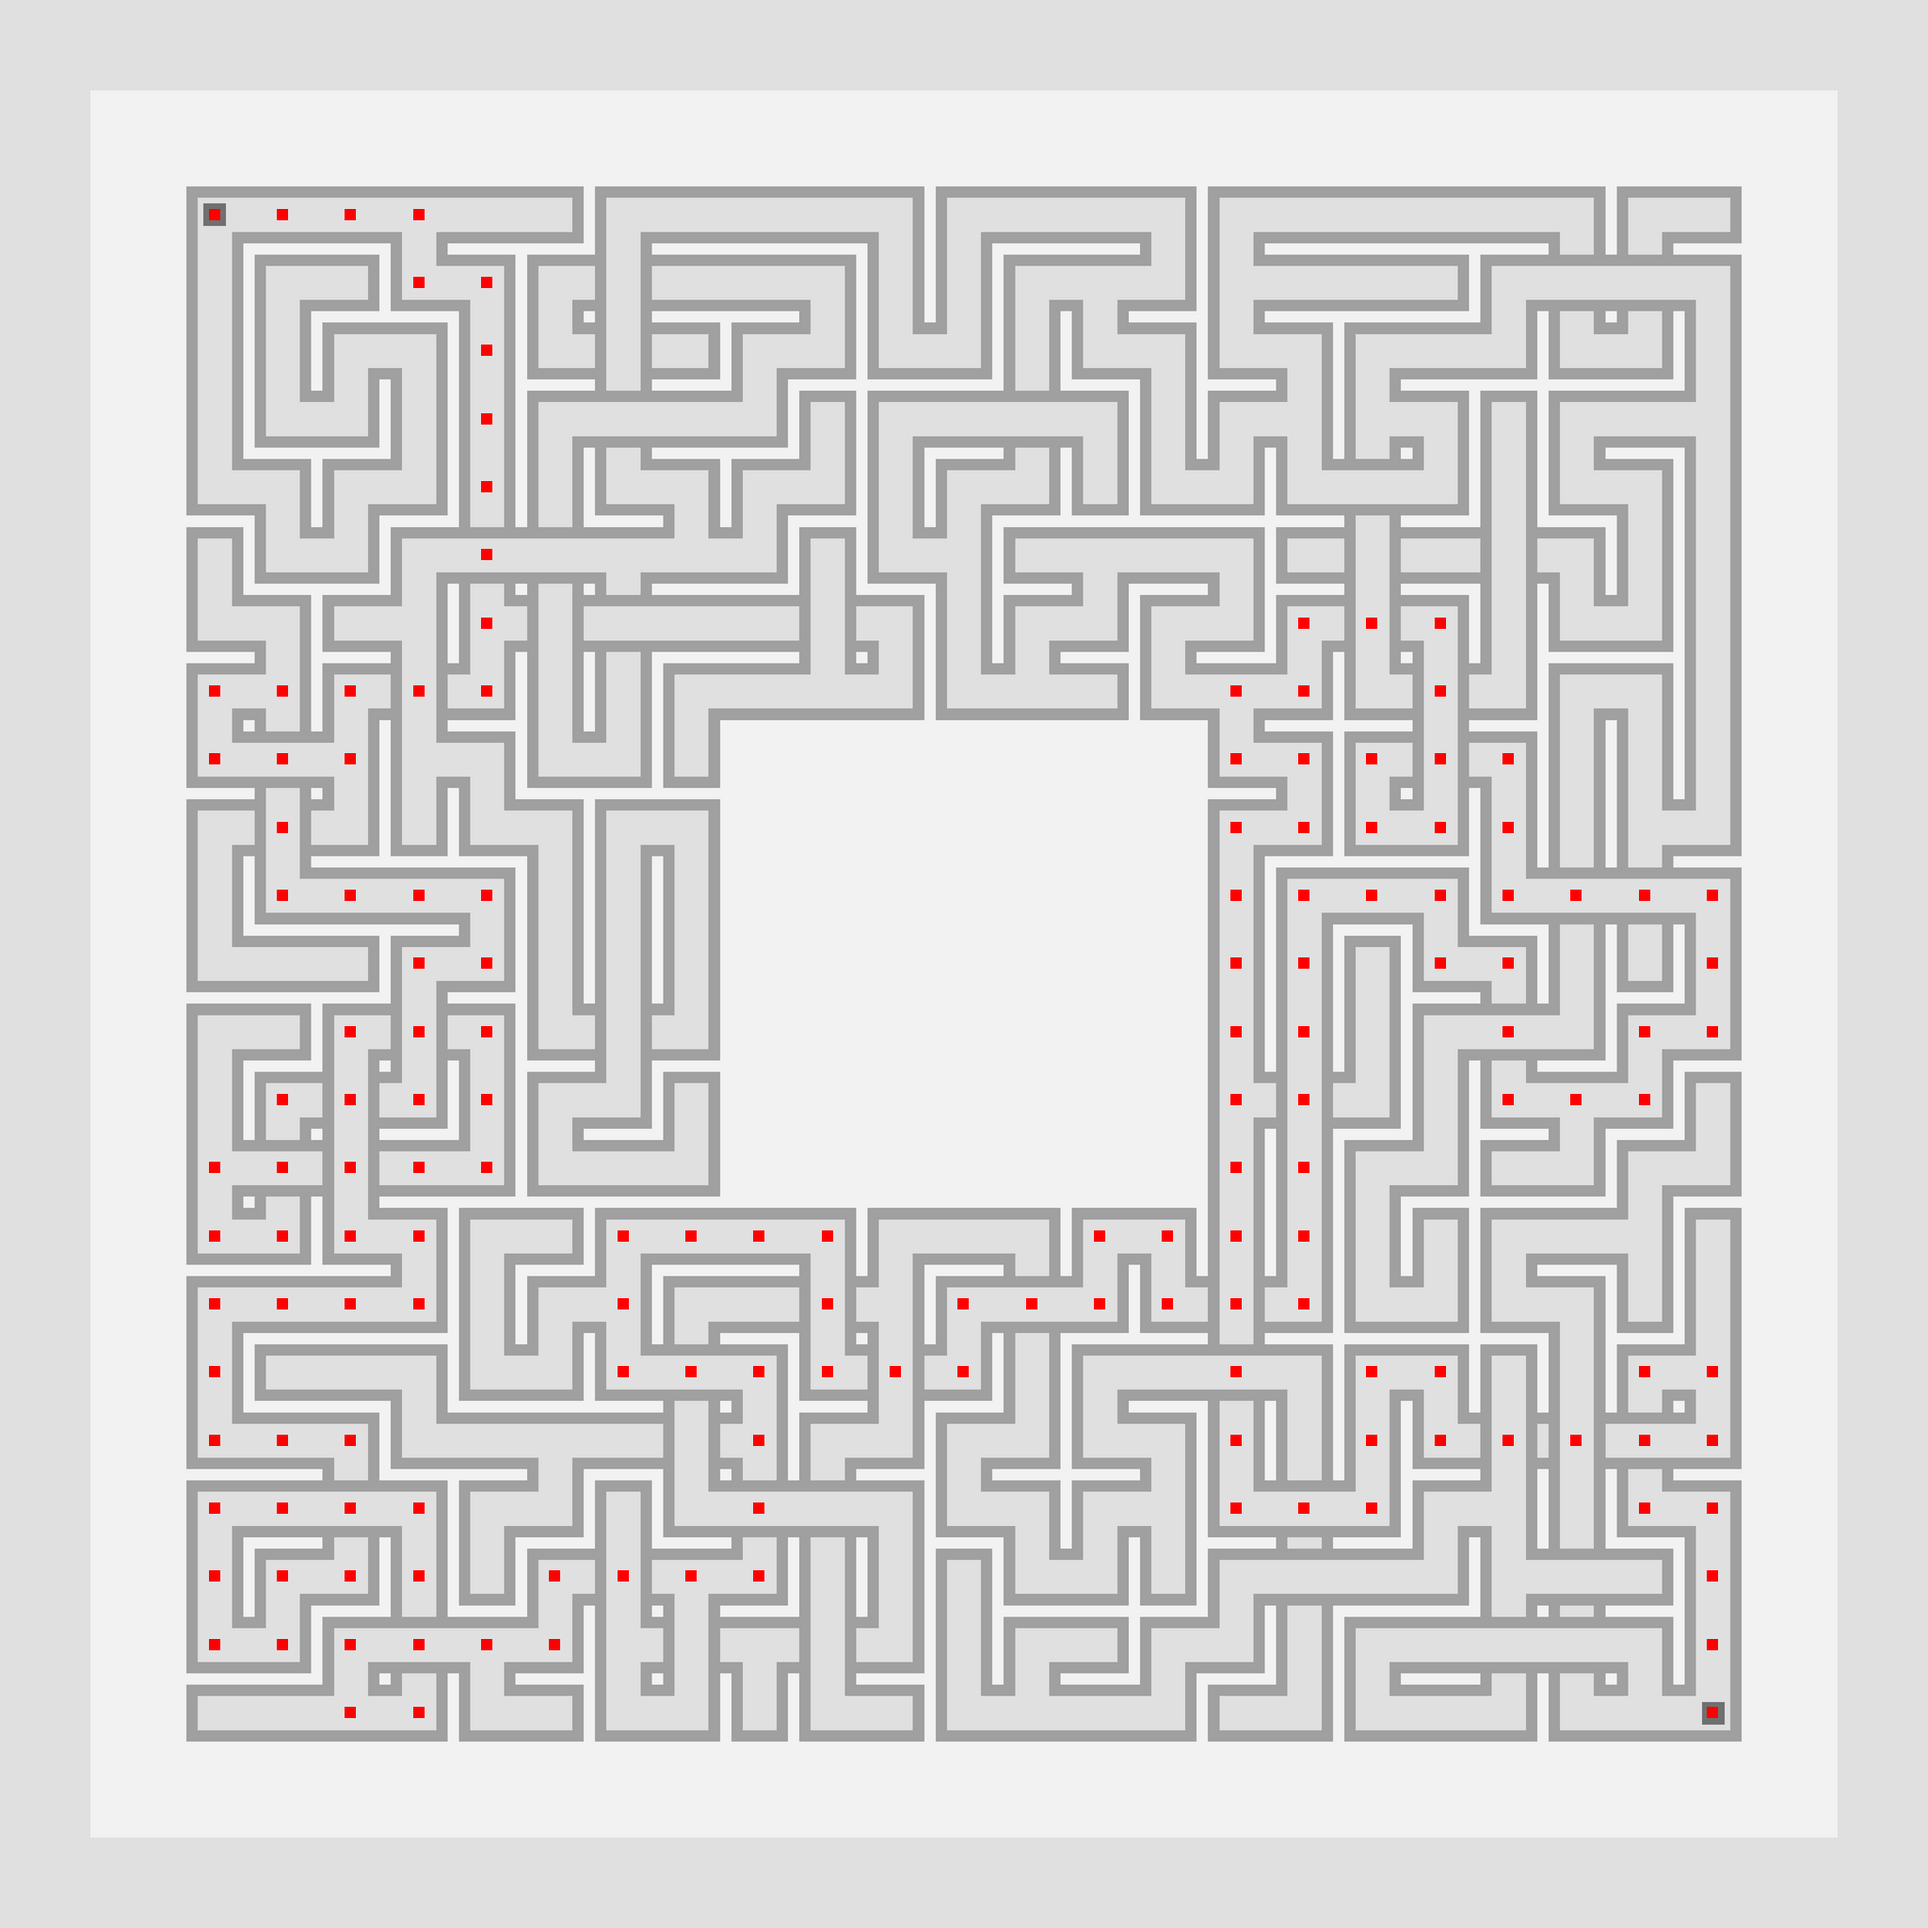
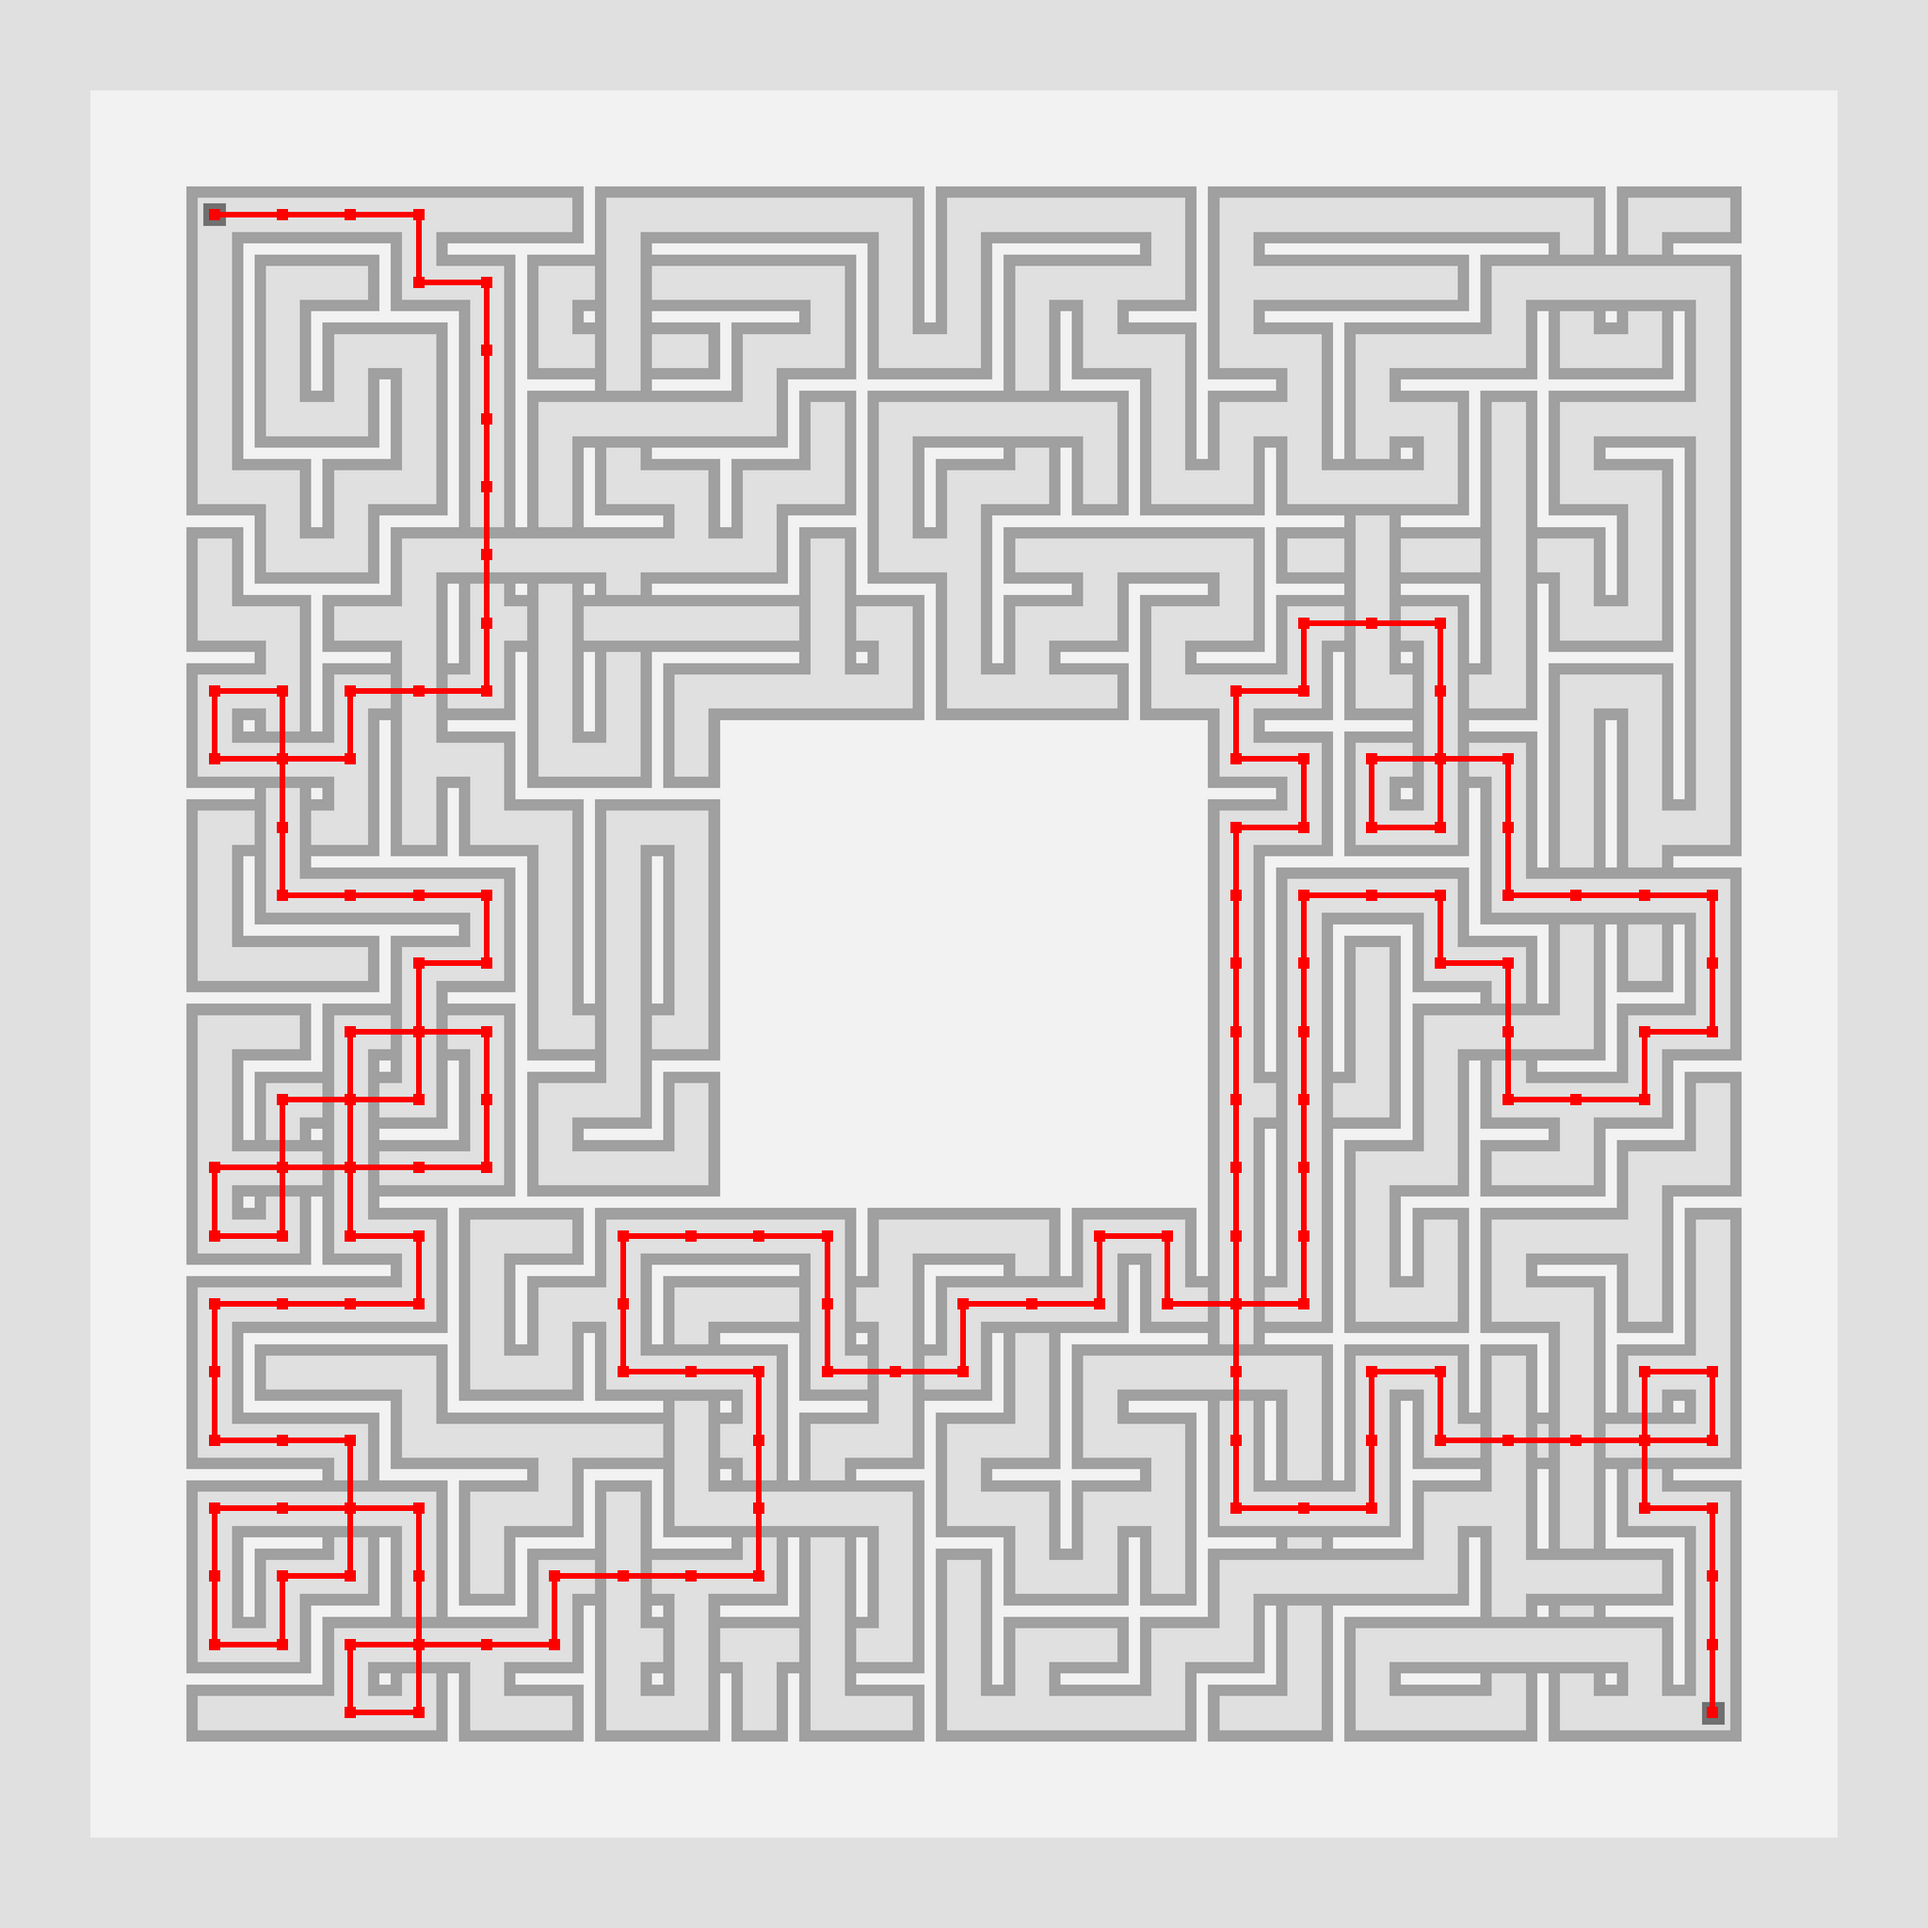
:tada:

diff --git a/src/libs/solve_renderer.rs b/src/libs/solve_renderer.rs
@@ -14,6 +14,8 @@ pub fn render(img: &mut DynamicImage, maze: &Maze, solved: Vec<u32>) {
   let maze_img_size = img_width - LEFT_CORNER * 2;
   let img_cell_size = maze_img_size as f32 / width as f32;
 
+  let mut prev_point = Point { x: 0, y: 0 };
+
   for index in solved {
     let y = index / height;
     let x = index % height;
@@ -24,6 +26,11 @@ pub fn render(img: &mut DynamicImage, maze: &Maze, solved: Vec<u32>) {
     };
 
     render_point(img, point);
+
+    if prev_point.x != 0 {
+      render_line(img, point, prev_point);
+    }
+    prev_point = point;
   }
 }
 
@@ -35,6 +42,40 @@ fn render_point(img: &mut DynamicImage, point: Point) {
   for y in 0..size {
     for x in 0..size {
       img.put_pixel(point.x + x - size / 2, point.y + y - size / 2, pixel);
+    }
+  }
+}
+
+fn render_line(img: &mut DynamicImage, from: Point, to: Point) {
+  let draw_color = [255, 0, 0, 255];
+  let pixel: Rgba<u8> = Rgba(draw_color);
+  let size = 6;
+
+  let x_dist = (from.x as i32 - to.x as i32).abs() as u32;
+  let y_dist = (from.y as i32 - to.y as i32).abs() as u32;
+
+  let range = if x_dist > y_dist {
+    if from.x > to.x {
+      to.x..from.x
+    } else {
+      from.x..to.x
+    }
+  } else {
+    if from.y > to.y {
+      to.y..from.y
+    } else {
+      from.y..to.y
+    }
+  };
+
+  let fixed = if x_dist > y_dist { from.y } else { from.x };
+  for j in range {
+    for i in 0..size {
+      if x_dist > y_dist {
+        img.put_pixel(j, i + fixed - size / 2, pixel);
+      } else {
+        img.put_pixel(i + fixed - size / 2, j, pixel);
+      };
     }
   }
 }

diff --git a/src/libs/point.rs b/src/libs/point.rs
@@ -1,4 +1,4 @@
-#[derive(Default)]
+#[derive(Default, Clone, Copy)]
 pub struct Point {
   pub x: u32,
   pub y: u32,
